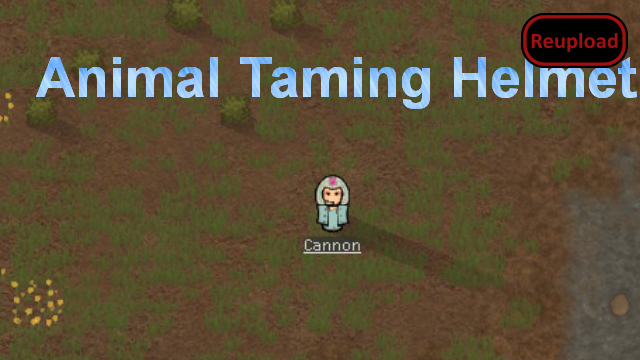
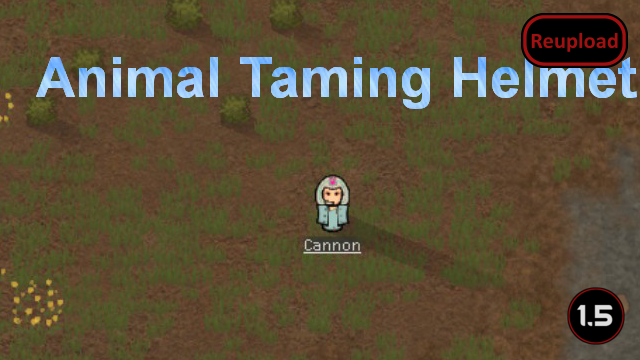
Mod updated for 1.5 and passed autotests

Changed region(s): [[0.875, 0.7944, 1.0, 0.9778]]

diff --git a/README.md b/README.md
@@ -45,11 +45,13 @@ Gold 25
 
 -  See if the the error persists if you just have this mod and its requirements active.
 -  If not, try adding your other mods until it happens again.
--  Post your error-log using https://steamcommunity.com/workshop/filedetails/?id=818773962]HugsLib and command Ctrl+F12
+-  Post your error-log using https://steamcommunity.com/workshop/filedetails/?id=818773962]HugsLib or the standalone https://steamcommunity.com/sharedfiles/filedetails/?id=2873415404]Uploader and command Ctrl+F12
 -  For best support, please use the Discord-channel for error-reporting.
 -  Do not report errors by making a discussion-thread, I get no notification of that.
 -  If you have the solution for a problem, please post it to the GitHub repository.
+-  Use https://github.com/RimSort/RimSort/releases/latest]RimSort to sort your mods
 
 
 
+https://steamcommunity.com/sharedfiles/filedetails/changelog/2441078832]![Image](https://img.shields.io/github/v/release/emipa606/AnimalTamingHelmet?label=latest%20version&style=plastic&color=9f1111&labelColor=black)
 
